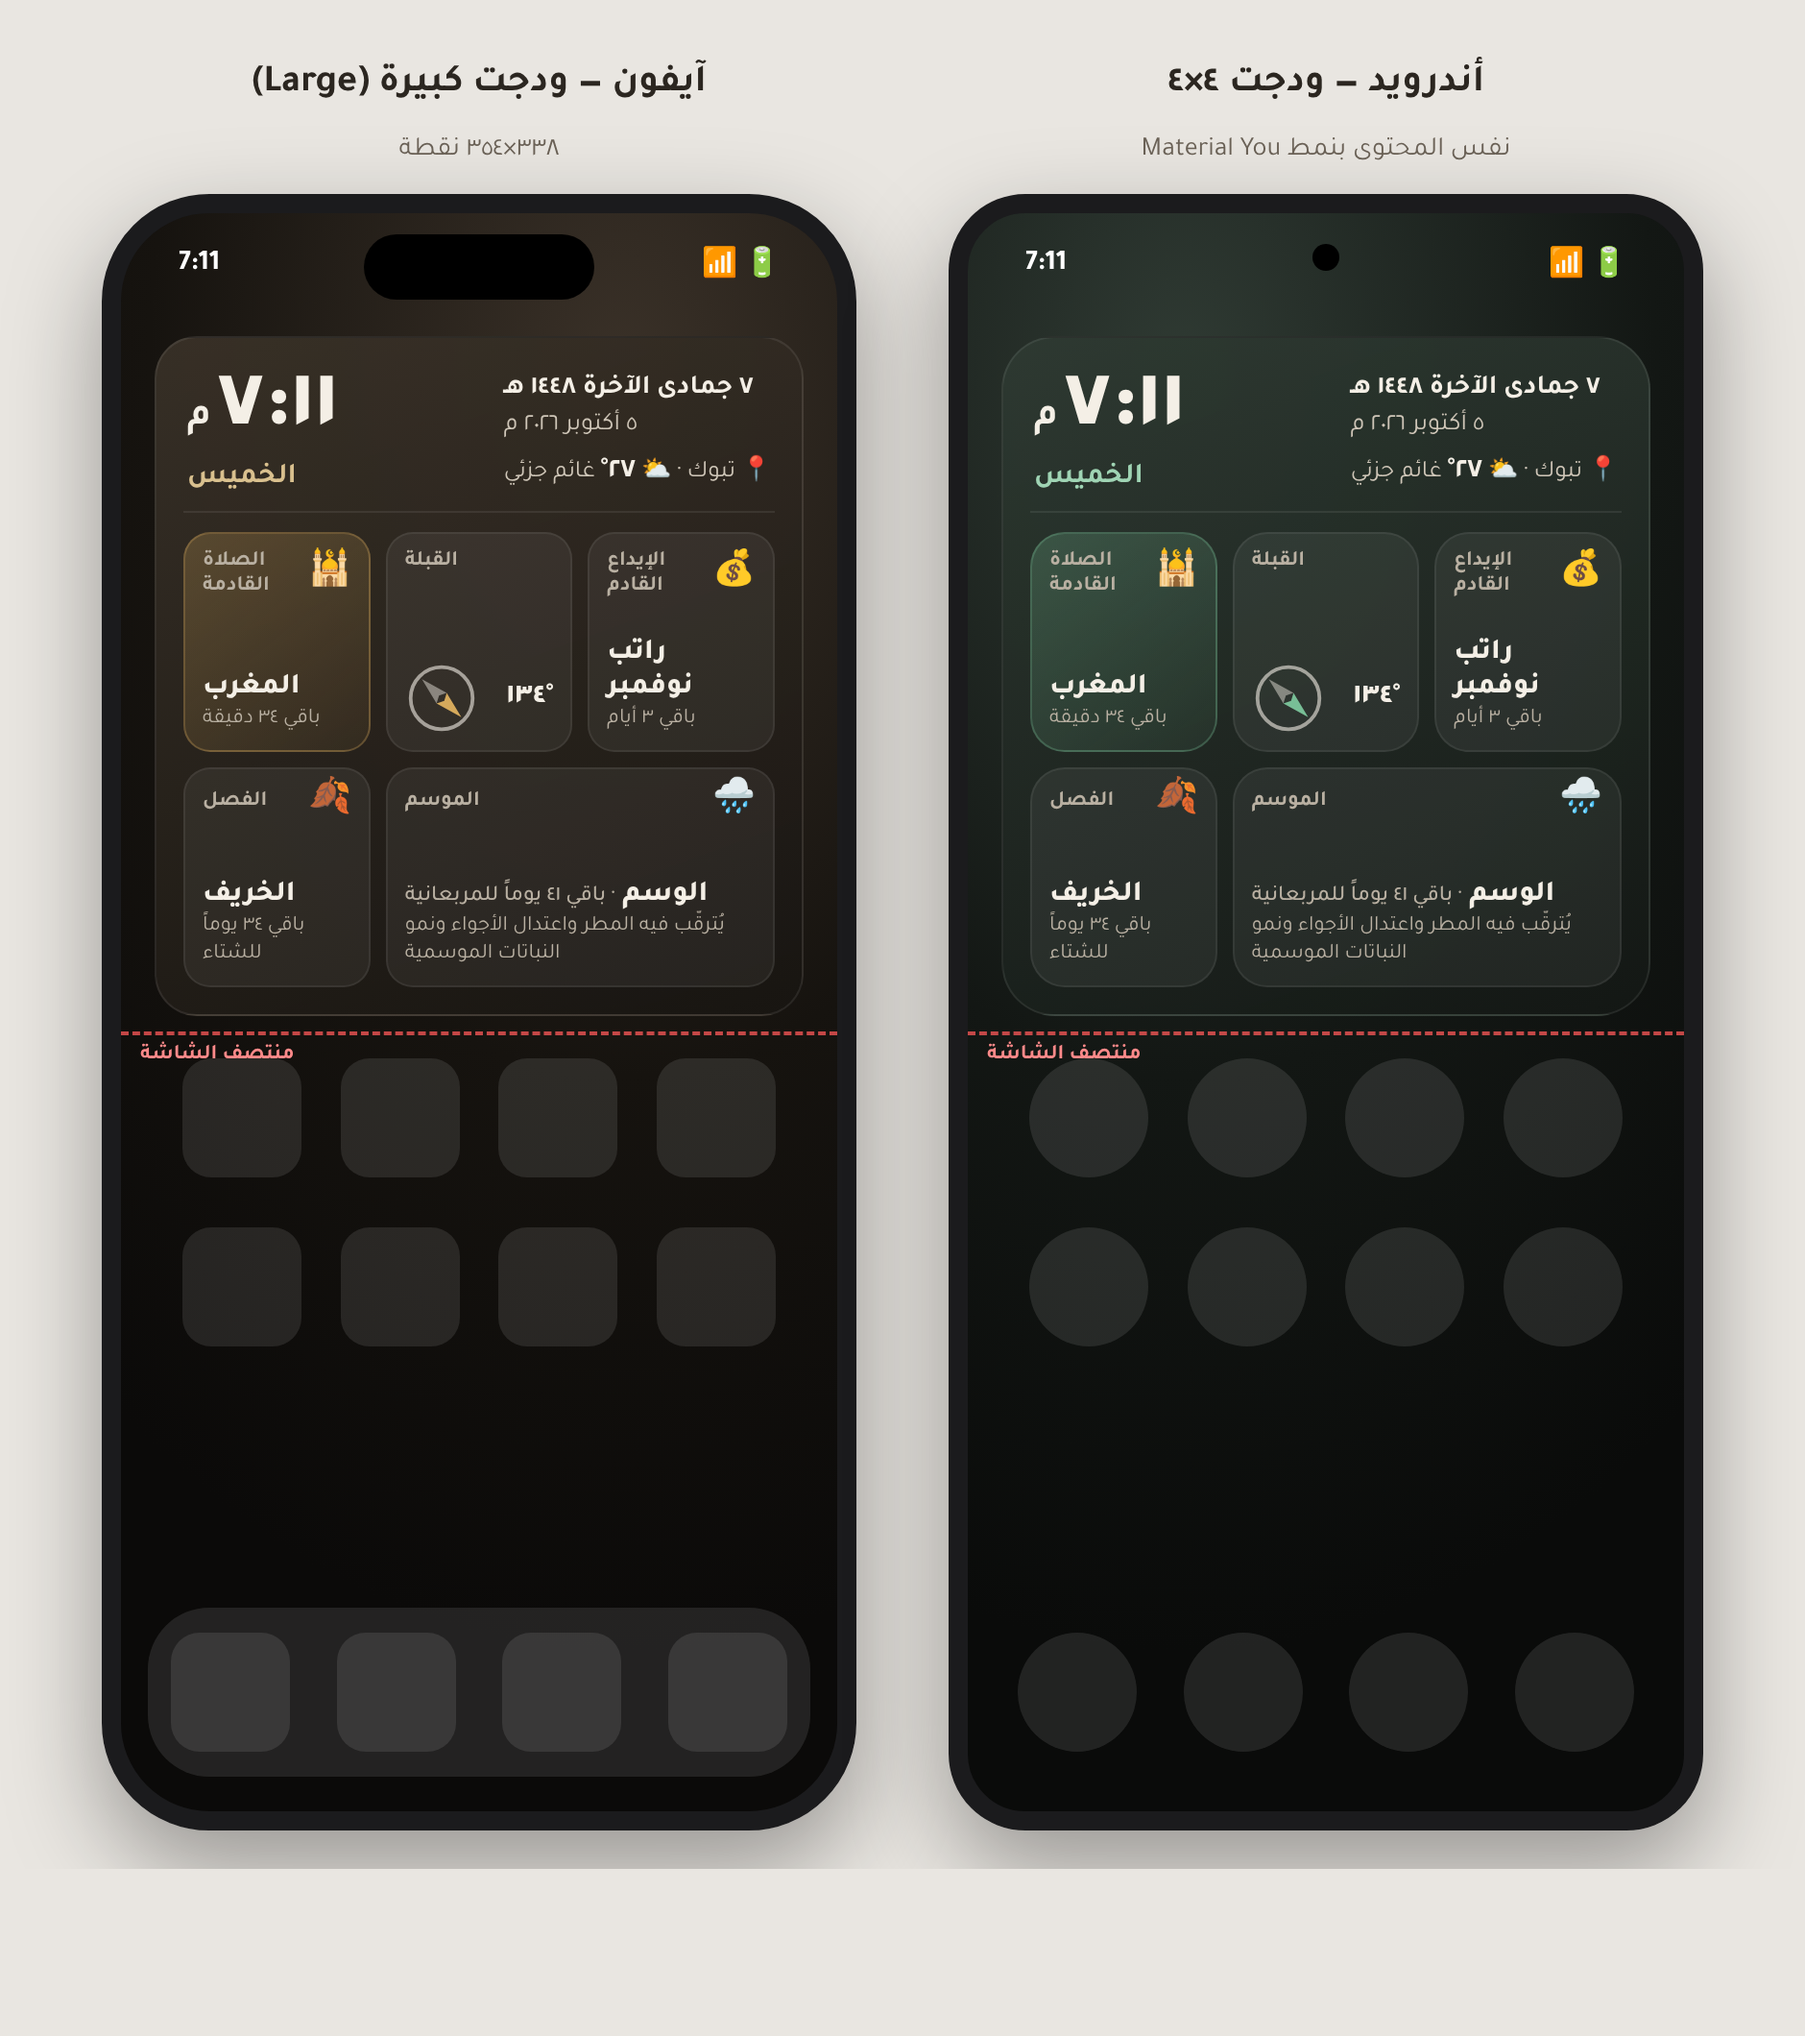
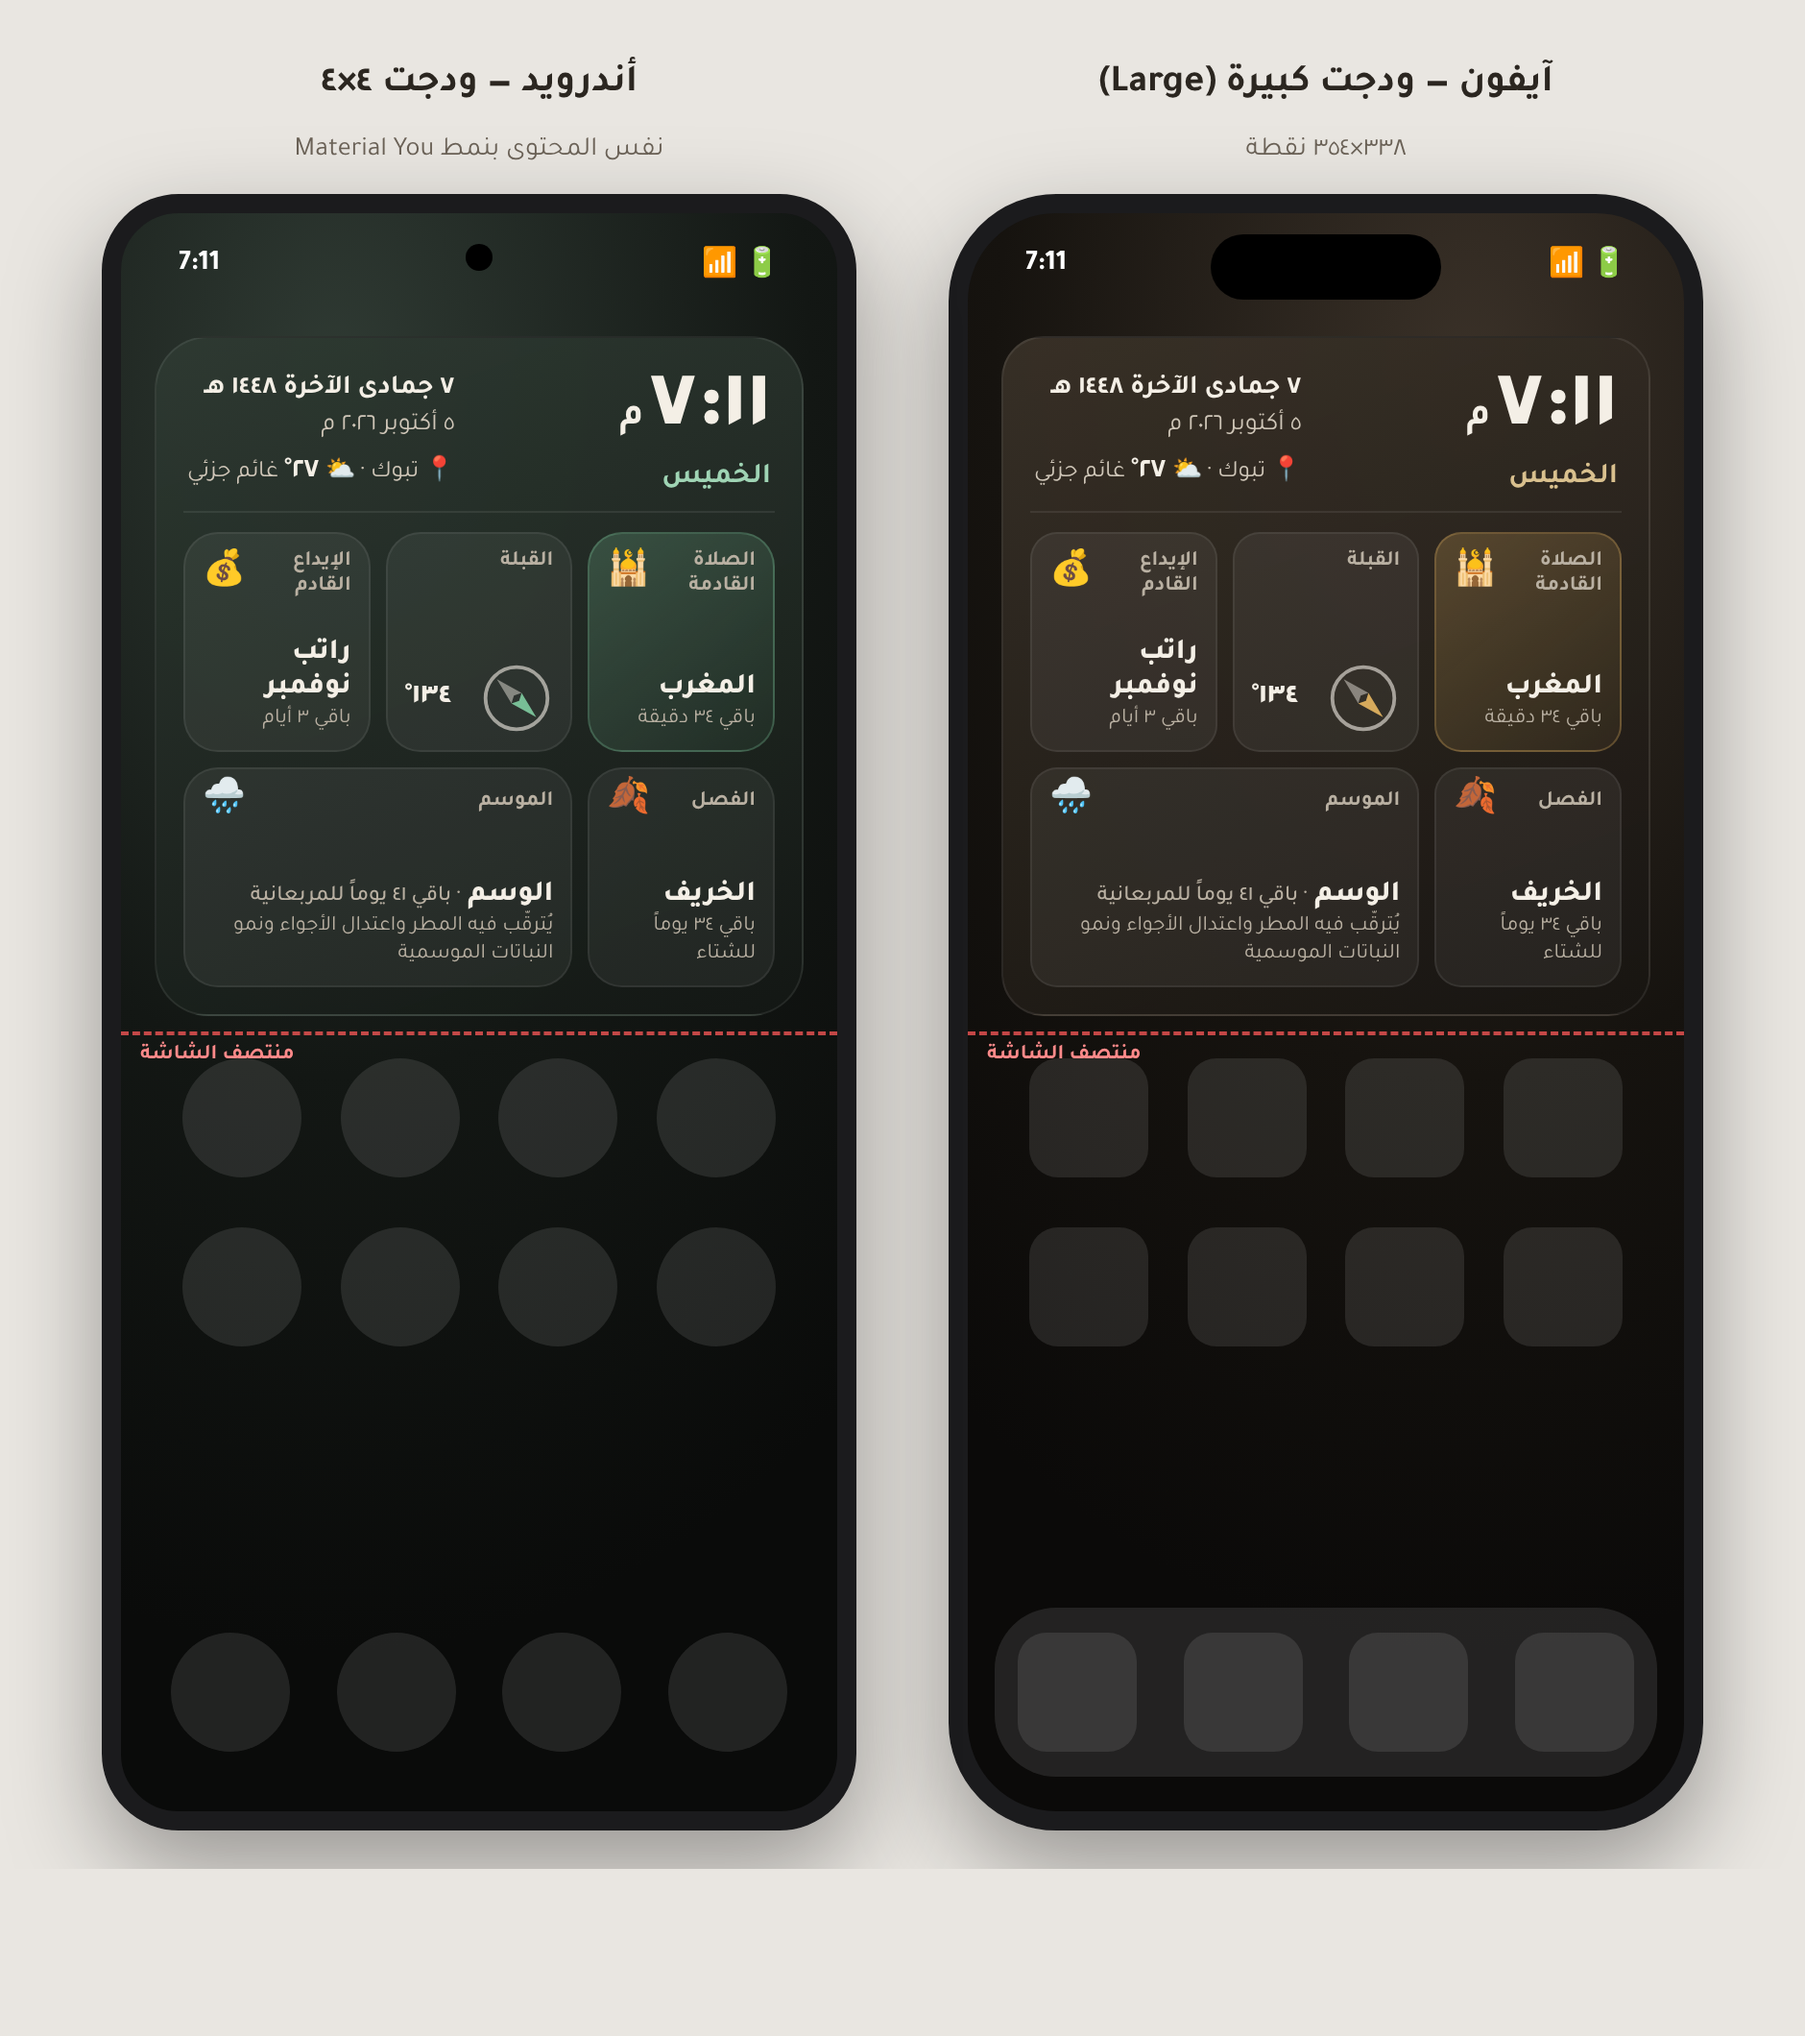
Fix widget mockups to lay out right-to-left
Claude-Session: https://claude.ai/code/session_014oXu4CnQAQ8JAH31M3eNNK

diff --git a/widget-mockup/widget-large-v2.html b/widget-mockup/widget-large-v2.html
@@ -6,7 +6,7 @@
 <style>
   * { box-sizing: border-box; margin: 0; padding: 0; }
   body { font-family: 'Tajawal', 'Noto Color Emoji', sans-serif; background: #e9e6e1; padding: 32px; color: #f4efe6; }
-  .row { display: flex; gap: 48px; justify-content: center; direction: ltr; }
+  .row { display: flex; gap: 48px; justify-content: center; }
   .col { display: flex; flex-direction: column; align-items: center; gap: 14px; }
   .label { color: #2b2620; font-weight: 700; font-size: 20px; direction: rtl; }
   .sub { color: #6b6257; font-size: 14px; direction: rtl; }
@@ -68,7 +68,7 @@
   .clock .time small { font-size: 20px; }
   .clock .day { font-size: 15px; font-weight: 700; color: #d9c08e; margin-top: 4px; }
   .android .clock .day { color: #9fd4b4; }
-  .dates { text-align: left; direction: rtl; display: flex; flex-direction: column; align-items: flex-end; gap: 3px; padding-top: 2px; }
+  .dates { text-align: right; display: flex; flex-direction: column; align-items: flex-start; gap: 3px; padding-top: 2px; }
   .hj { font-size: 14px; font-weight: 700; }
   .gr { font-size: 13px; color: #cfc6b8; }
   .wx2 { font-size: 12.5px; color: #cfc6b8; margin-top: 4px; }

diff --git a/widget-mockup/widget-large.html b/widget-mockup/widget-large.html
@@ -6,7 +6,7 @@
 <style>
   * { box-sizing: border-box; margin: 0; padding: 0; }
   body { font-family: 'Tajawal', 'Noto Color Emoji', sans-serif; background: #e9e6e1; padding: 32px; color: #f4efe6; }
-  .row { display: flex; gap: 48px; justify-content: center; direction: ltr; }
+  .row { display: flex; gap: 48px; justify-content: center; }
   .col { display: flex; flex-direction: column; align-items: center; gap: 14px; }
   .label { color: #2b2620; font-weight: 700; font-size: 20px; direction: rtl; }
   .sub { color: #6b6257; font-size: 14px; direction: rtl; }
